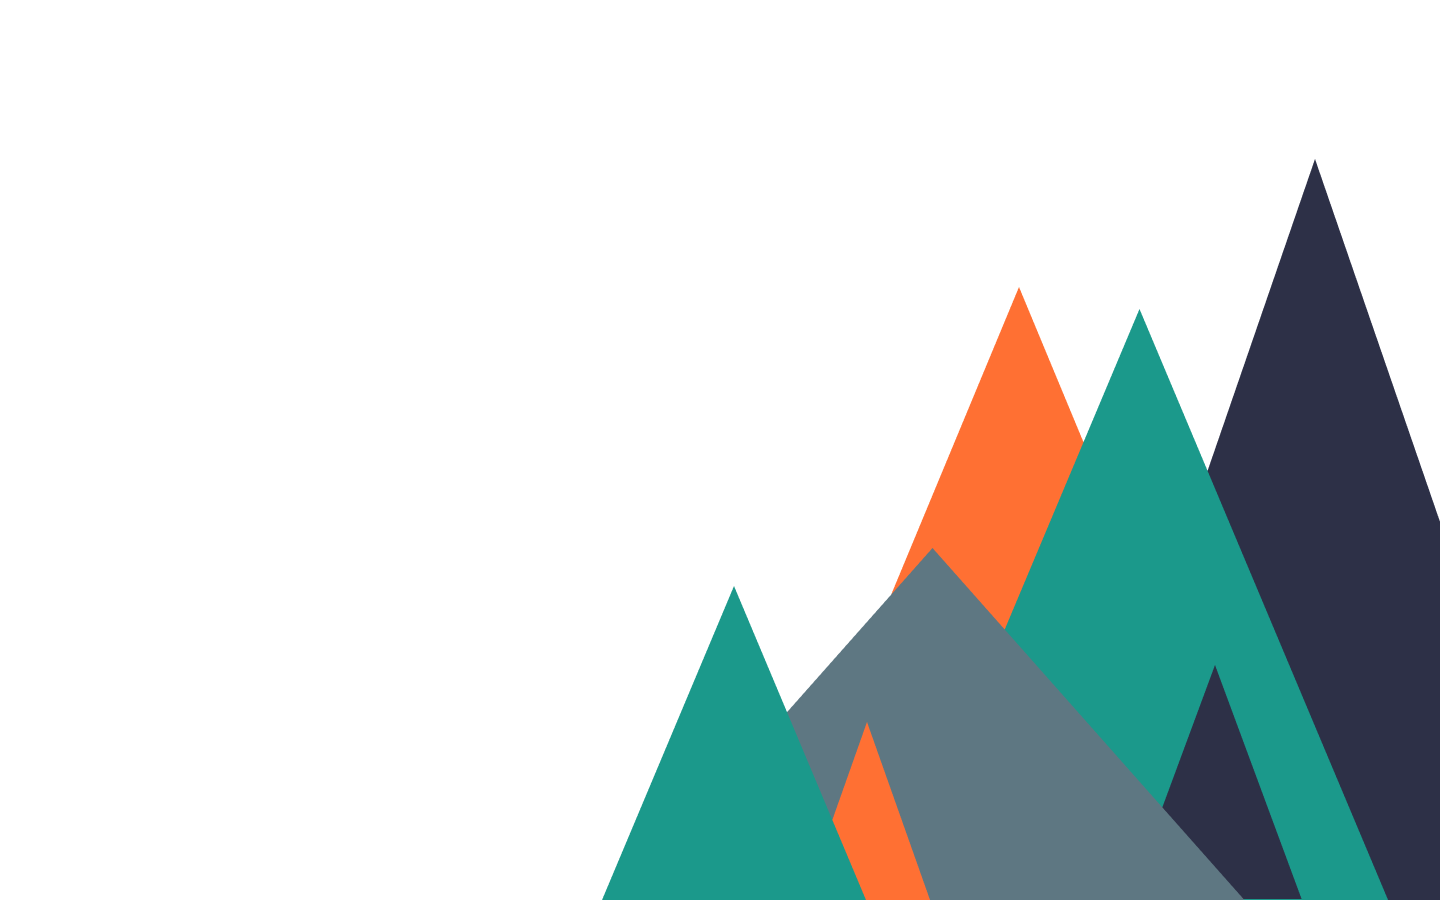
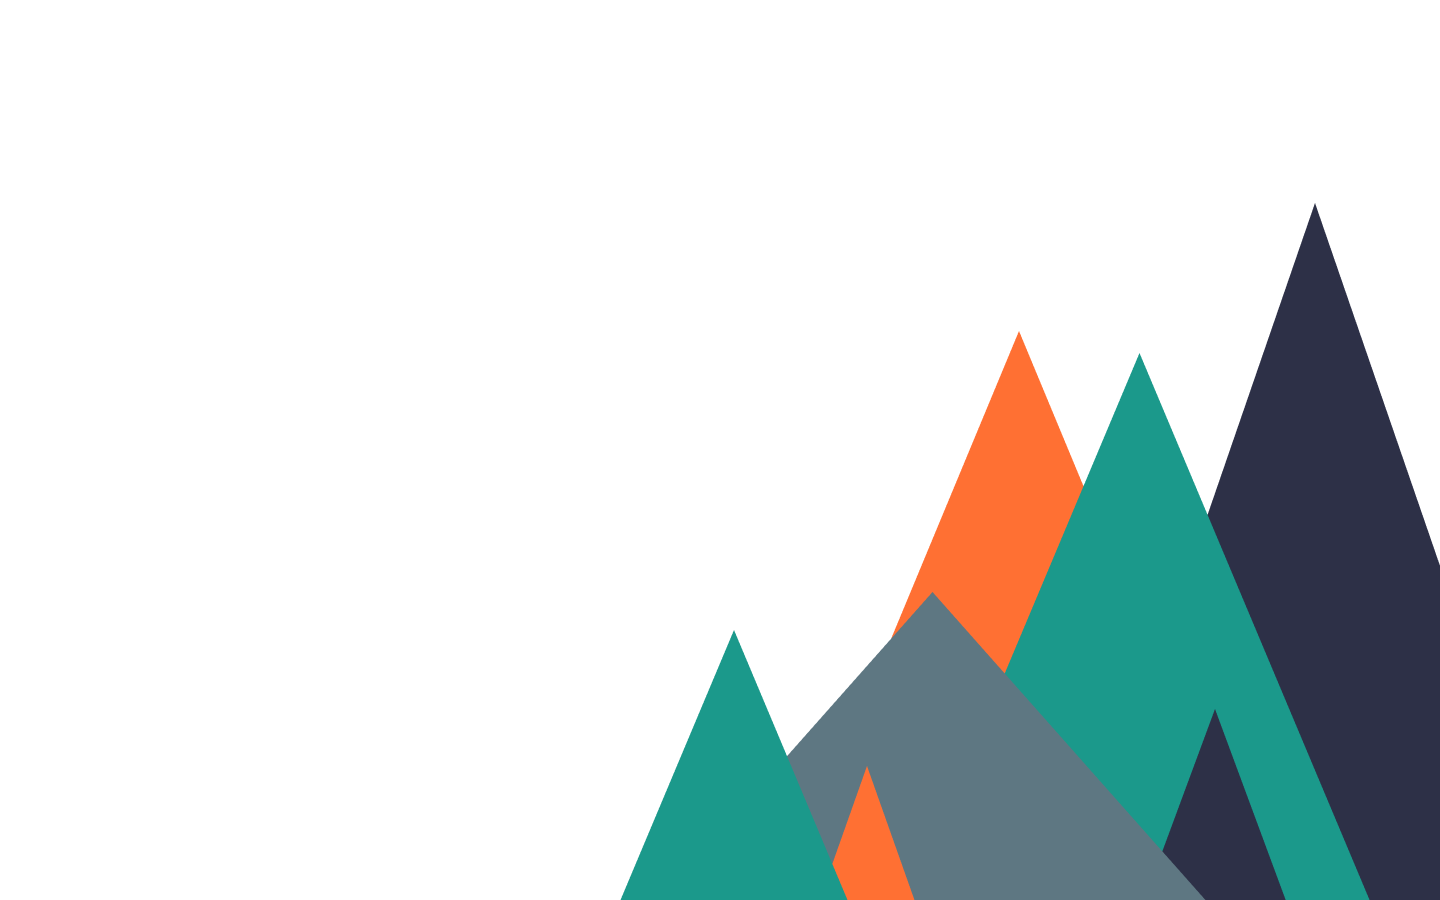
Fix some responsive scaling

Changed region(s): [[0.4062, 0.1867, 0.9688, 1.0], [0.9375, 0.3111, 1.0, 0.6222]]

diff --git a/public/css/style.css b/public/css/style.css
@@ -22,7 +22,7 @@ html, body {
 
 body {
     background: 
-        url(../../src/assets/backlground.svg);
+        url(../../src/assets/background.svg);
     background-position: center;
     background-repeat: no-repeat;
     background-size: cover;
@@ -117,6 +117,19 @@ nav {
 }
 
 @media only screen and (max-width:1100px) {
+    .logo{
+        height: 70%;
+        width: auto;
+    }
+
+    body{
+        background-position: bottom;
+        background-repeat: no-repeat;
+        background-size: contain;
+    }
+    .info {
+        grid-column: 3 / span 6;
+    }
     .icon img {
         height: 55px;
         width: auto;
@@ -136,7 +149,19 @@ nav {
 
 }
 
-@media only screen and (max-width: 650px) {
+@media only screen and (max-width: 830px) {
+    .logo{
+        height: 70px;
+        width: auto;
+    }
+
+    body{
+
+        background-position: bottom;
+        background-repeat: no-repeat;
+        background-size: contain;
+    }
+
     .info {
         grid-column: 2 / span 6;
     }
